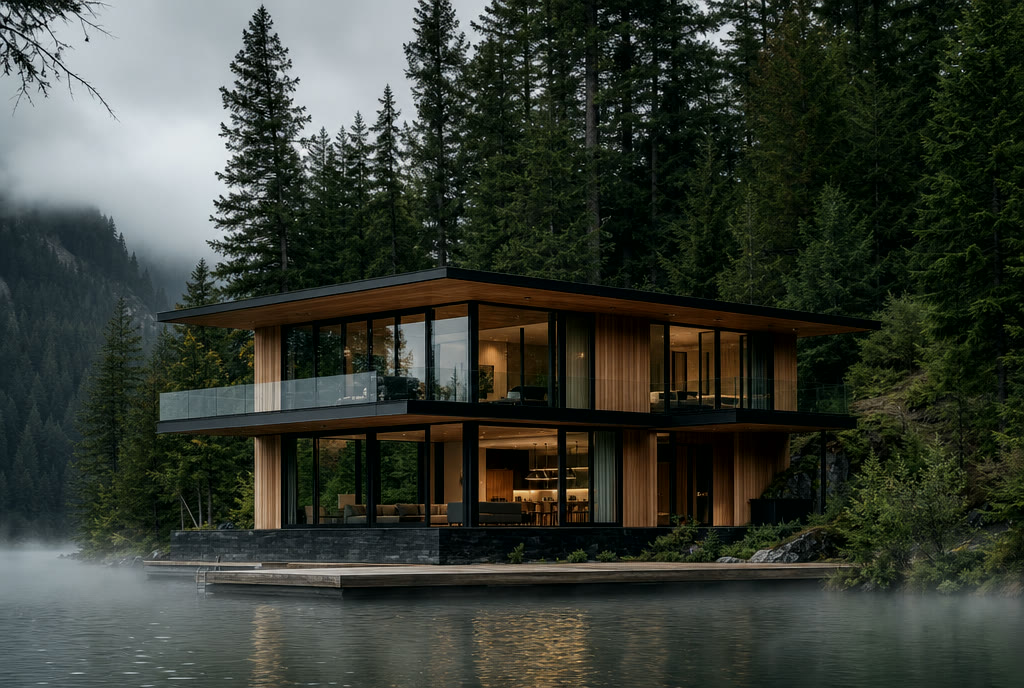
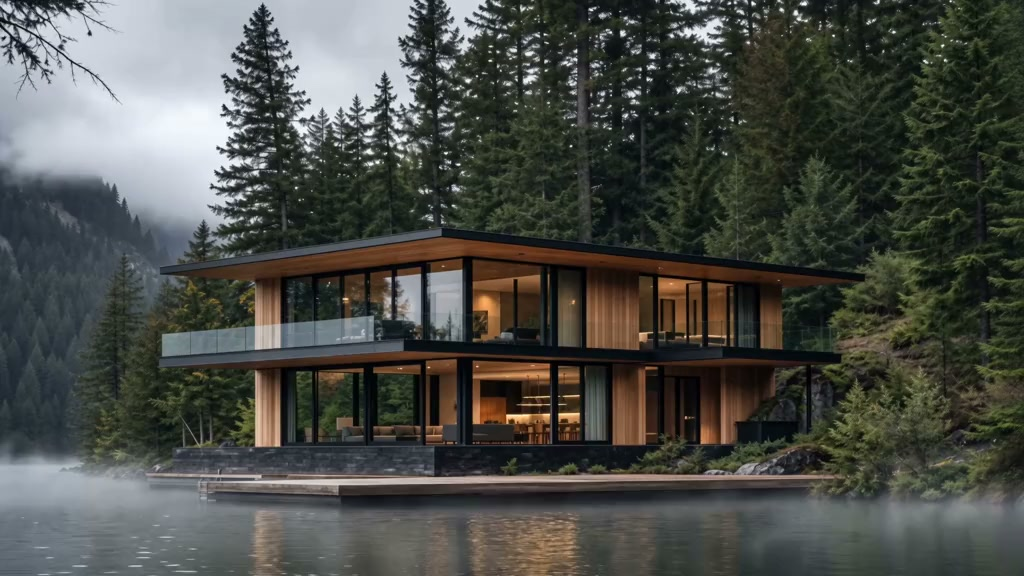
Hero video, flight leg 1 pilot, scrub engine and encode scripts
The pilot confirms the seam law: the last frame of leg 1 and anchor 02 are the
same image, so the joint between legs is a continuation rather than a cut.

Two findings worth the price of the pilot:
- The reported aspect_ratio lies. Both generations claim 16:9; leg_1.mp4 is
  actually 1168x784 (3:2, inferred from the anchors) and only the Seedance hero
  is genuinely 16:9, re-cropped from a 3:2 input. Measure the file.
- Because Seedance re-crops, the hero poster has to be cut from the encoded
  video rather than from anchor 01, or the hero jumps when the video takes over.
  encode-hero.sh does this by construction.

diff --git a/index.html b/index.html
@@ -657,6 +657,78 @@ legend { padding: 0; }
 }
 
 /* ==========================================================================
+   5b. THE FLIGHT — scroll drives the playhead
+   Scroll does not animate anything here. It moves currentTime on a video that
+   was already rendered. That is why it is smooth in both directions and needs
+   no animation library at all.
+   ========================================================================== */
+.flight {
+  position: relative;
+  height: 700vh;          /* ~20vh per second of a 35s flight */
+  background: var(--ink-deep);
+}
+.flight__stage {
+  position: sticky;
+  top: 0;
+  height: 100svh;
+  overflow: hidden;
+  background: var(--ink-deep) url("assets/flight_poster.jpg") center / cover no-repeat;
+}
+.flight__video {
+  width: 100%;
+  height: 100%;
+  object-fit: cover;
+}
+.flight__caption {
+  position: absolute;
+  inset: auto 0 0 0;
+  z-index: 2;
+  padding-block: var(--space-2xl);
+  color: var(--sand);
+  background: linear-gradient(to top,
+    color-mix(in srgb, var(--ink-deep) 78%, transparent), transparent);
+  pointer-events: none;
+}
+.flight__caption h2 { max-width: 16ch; }
+.flight__caption .lead { color: var(--on-dark-dim); margin-top: var(--space-sm); max-width: 40ch; }
+
+/* progress hairline, so the section reads as a controlled length rather than
+   an unexplained seven screens of scrolling */
+.flight__rail {
+  position: absolute;
+  inset: auto 0 0 0;
+  z-index: 3;
+  height: 2px;
+  background: var(--rule-dark);
+}
+.flight__rail span {
+  display: block;
+  height: 100%;
+  width: 0;
+  background: var(--amber);
+  transform-origin: left;
+}
+
+/* --------------------------------------------------------------------------
+   The fallbacks. Every one of them must COLLAPSE THE HEIGHT as well as hide
+   the video: a 700vh section with nothing in it is seven empty screens the
+   visitor scrolls through for no reason. That is the easiest failure to miss,
+   because it never shows up on the machine you built the site on.
+   -------------------------------------------------------------------------- */
+.flight.is-static { height: 100svh; }
+.flight.is-static .flight__video,
+.flight.is-static .flight__rail { display: none; }
+
+@media (prefers-reduced-motion: reduce) {
+  .flight { height: 100svh; }
+  .flight__video, .flight__rail { display: none; }
+}
+
+@media (max-width: 767px) {
+  .flight { height: 400vh; }
+}
+
+/* ==========================================================================
    6. AMENITIES — dark band
    ========================================================================== */
 .section--dark {
@@ -1397,6 +1469,25 @@ legend { padding: 0; }
     </div>
   </section>
 
+  <!-- 5b. THE FLIGHT ==================================================== -->
+  <section class="flight" id="flight" aria-labelledby="flightHeading">
+    <div class="flight__stage">
+      <!-- no autoplay, no play(). The only thing that ever moves this video
+           is currentTime, written by the scroll handler below. -->
+      <video class="flight__video" id="flightVideo"
+             muted playsinline preload="auto"
+             poster="assets/flight_poster.jpg" aria-hidden="true" tabindex="-1">
+      </video>
+
+      <div class="shell flight__caption">
+        <h2 id="flightHeading">Walk the whole place without getting up</h2>
+        <p class="lead">Keep scrolling. Every room below is the same room you just
+          saw in the photographs &mdash; the same sofa, the same island, the same tub.</p>
+      </div>
+      <div class="flight__rail" aria-hidden="true"><span id="flightRail"></span></div>
+    </div>
+  </section>
+
   <!-- 6. AMENITIES ====================================================== -->
   <section class="section section--dark" id="amenities">
     <div class="shell">
@@ -1926,6 +2017,89 @@ legend { padding: 0; }
         guests + (guests === 1 ? ' guest' : ' guests') +
         ' — those dates are open. Write to us at stay@stillwatercabin.com and we will hold them.', 'ok');
   });
+
+  /* ----------------------------------------------------------------------
+     THE FLIGHT — scroll position maps onto video.currentTime.
+
+     The video is never played. There is no autoplay and no play() call
+     anywhere in here; the only thing that moves it is currentTime.
+     ---------------------------------------------------------------------- */
+  (function flight() {
+    var section = document.querySelector('.flight');
+    var video = document.getElementById('flightVideo');
+    var rail = document.getElementById('flightRail');
+    if (!section || !video) return;
+
+    var reduced = window.matchMedia('(prefers-reduced-motion: reduce)').matches;
+    var narrow = window.matchMedia('(max-width: 767px)').matches;
+    var saveData = navigator.connection && navigator.connection.saveData;
+
+    /* Fallbacks. Each one collapses the section height as well as hiding the
+       video — 700vh with nothing in it is seven empty screens. The height is
+       handled in CSS; is-static exists for the JS-detected cases. */
+    if (reduced || saveData) {
+      section.classList.add('is-static');
+      return;                       // the poster is already the stage background
+    }
+
+    var src = narrow ? 'assets/flight_mobile.mp4' : 'assets/flight_desktop.mp4';
+    video.src = src;
+
+    /* If the file never arrives, fall back rather than leaving the visitor to
+       scroll seven screens of black. */
+    video.addEventListener('error', function () { section.classList.add('is-static'); });
+
+    var target = 0, current = 0, raf = null, ready = false;
+    video.addEventListener('loadedmetadata', function () { ready = true; tick(); });
+
+    function progress() {
+      var travel = section.offsetHeight - window.innerHeight;
+      if (travel <= 0) return 0;
+      var passed = -section.getBoundingClientRect().top;
+      return Math.min(1, Math.max(0, passed / travel));
+    }
+
+    function tick() {
+      /* The lerp is not decoration. Without it every scroll event issues its
+         own seek and the browser floods the video decoder. With it, the number
+         of seeks is set by the frame rate rather than by how fast the wheel
+         spins. */
+      current += (target - current) * 0.12;
+      if (Math.abs(target - current) < 0.0004) current = target;
+
+      /* readyState >= 2 is a gate, not politeness: seeking before there is
+         data throws and leaves a black frame on screen. */
+      if (ready && video.readyState >= 2 && video.duration) {
+        var t = current * video.duration;
+        if (typeof video.fastSeek === 'function') video.fastSeek(t);
+        else video.currentTime = t;
+      }
+      if (rail) rail.style.width = (current * 100).toFixed(2) + '%';
+
+      raf = current === target ? null : requestAnimationFrame(tick);
+    }
+
+    window.addEventListener('scroll', function () {
+      target = progress();
+      if (raf === null) raf = requestAnimationFrame(tick);
+    }, { passive: true });
+
+    window.addEventListener('resize', function () {
+      target = progress();
+      if (raf === null) raf = requestAnimationFrame(tick);
+    }, { passive: true });
+
+    /* iOS will not paint a seeked frame until the video has been touched by a
+       real user gesture. One play/pause on the first touch unlocks it. */
+    window.addEventListener('touchstart', function unlock() {
+      var p = video.play();
+      if (p && p.then) p.then(function () { video.pause(); }).catch(function () {});
+      else video.pause();
+      window.removeEventListener('touchstart', unlock);
+    }, { once: true, passive: true });
+
+    target = progress();
+  })();
 
   /* ----------------------------------------------------------------------
      Gallery lightbox. <dialog> rather than a hand rolled overlay: the browser

diff --git a/.kolbo/production.md b/.kolbo/production.md
@@ -72,6 +72,48 @@ arithmetic is stale the moment you write it. Run `check_credits` fresh instead.
 
 ---
 
+## Video — 2026-07-29
+
+| item | model | settings | credits | file |
+|---|---|---|---|---|
+| Hero loop | `seedance-2` | 5s · 1080p · sound off | **338** | `6a69cb28b3e63bc59b9aad1c` |
+| Leg 1 (01→02) | `dop/standard/first-last-frame` | 5s · 720p | **100** | `6a69cb23b3e63bc59b9aaceb` |
+
+Both completed. Video bills per second, so the `duration_multiplier: 5` in the
+breakdown is the whole story: Seedance is roughly 68 cr/s, Higgsfield DoP
+roughly 20 cr/s. **Seedance costs 3.4x per second for a clip that barely moves.**
+
+### Three findings from the pilot
+
+**1. The seam law holds, and it is verifiable.** The last frame of leg 1 and
+anchor 02 are the same image — same sofa, same ridge line, same reflection on
+the deck boards. Extract both and stack them before paying for six more legs:
+
+```bash
+ffmpeg -sseof -0.1 -i media/legs/leg_1.mp4 -vframes 1 last.png
+```
+
+**2. `aspect_ratio` in the response metadata lies. Measure the file.**
+Both generations report `"aspect_ratio": "16:9"`. The actual files:
+
+- `leg_1.mp4` → **1168x784**, which is 3:2. The first/last frame model inferred
+  the ratio from the anchors and kept it, exactly as wanted.
+- `hero_raw.mp4` → **1920x1080**, genuinely 16:9. Seedance ignored the 3:2 input
+  and cropped in. The cabin sits noticeably larger in frame than in anchor 01.
+
+Never trust the reported ratio. `ffprobe` the file.
+
+**3. The hero poster must come from the encoded video, not from the anchor.**
+Because Seedance re-cropped, a poster cut from anchor 01 no longer matches the
+first painted frame, and the hero visibly jumps the moment the video takes over.
+`scripts/encode-hero.sh` takes the poster from frame 1 of `hero-loop.mp4`, which
+makes the mismatch impossible by construction. The crop stops mattering.
+
+Encoded result: `hero-loop.mp4` at **160 KB** against a 3 MB budget — the motion
+is deliberately tiny, so x264 has almost nothing to encode.
+
+---
+
 ## Still to generate
 
 - **Hero loop** — Seedance 2.0, `generate_video_from_image` on
